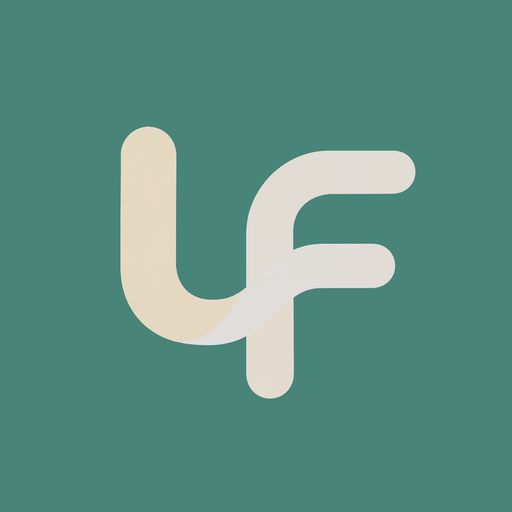
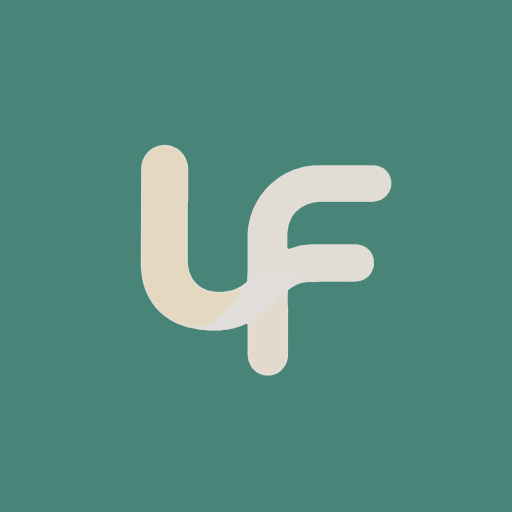
App 圖示：LF 往中間縮小（85%），手機桌面圖示不會太滿
Claude-Session: https://claude.ai/code/session_01BoFf5cy1wk9scrVZN21WYU

Changed region(s): [[0.2188, 0.25, 0.7812, 0.7812], [0.4688, 0.2812, 0.8125, 0.5625], [0.5625, 0.4062, 0.5938, 0.5]]

diff --git a/index.html b/index.html
@@ -7,7 +7,7 @@
   <!-- PWA -->
   <link rel="manifest" href="manifest.json">
   <link rel="icon" type="image/png" href="favicon.png">
-  <link rel="apple-touch-icon" href="apple-touch-icon.png">
+  <link rel="apple-touch-icon" href="apple-touch-icon.png?v=2">
   <meta name="mobile-web-app-capable" content="yes">
   <meta name="apple-mobile-web-app-capable" content="yes">
   <meta name="apple-mobile-web-app-status-bar-style" content="black-translucent">
